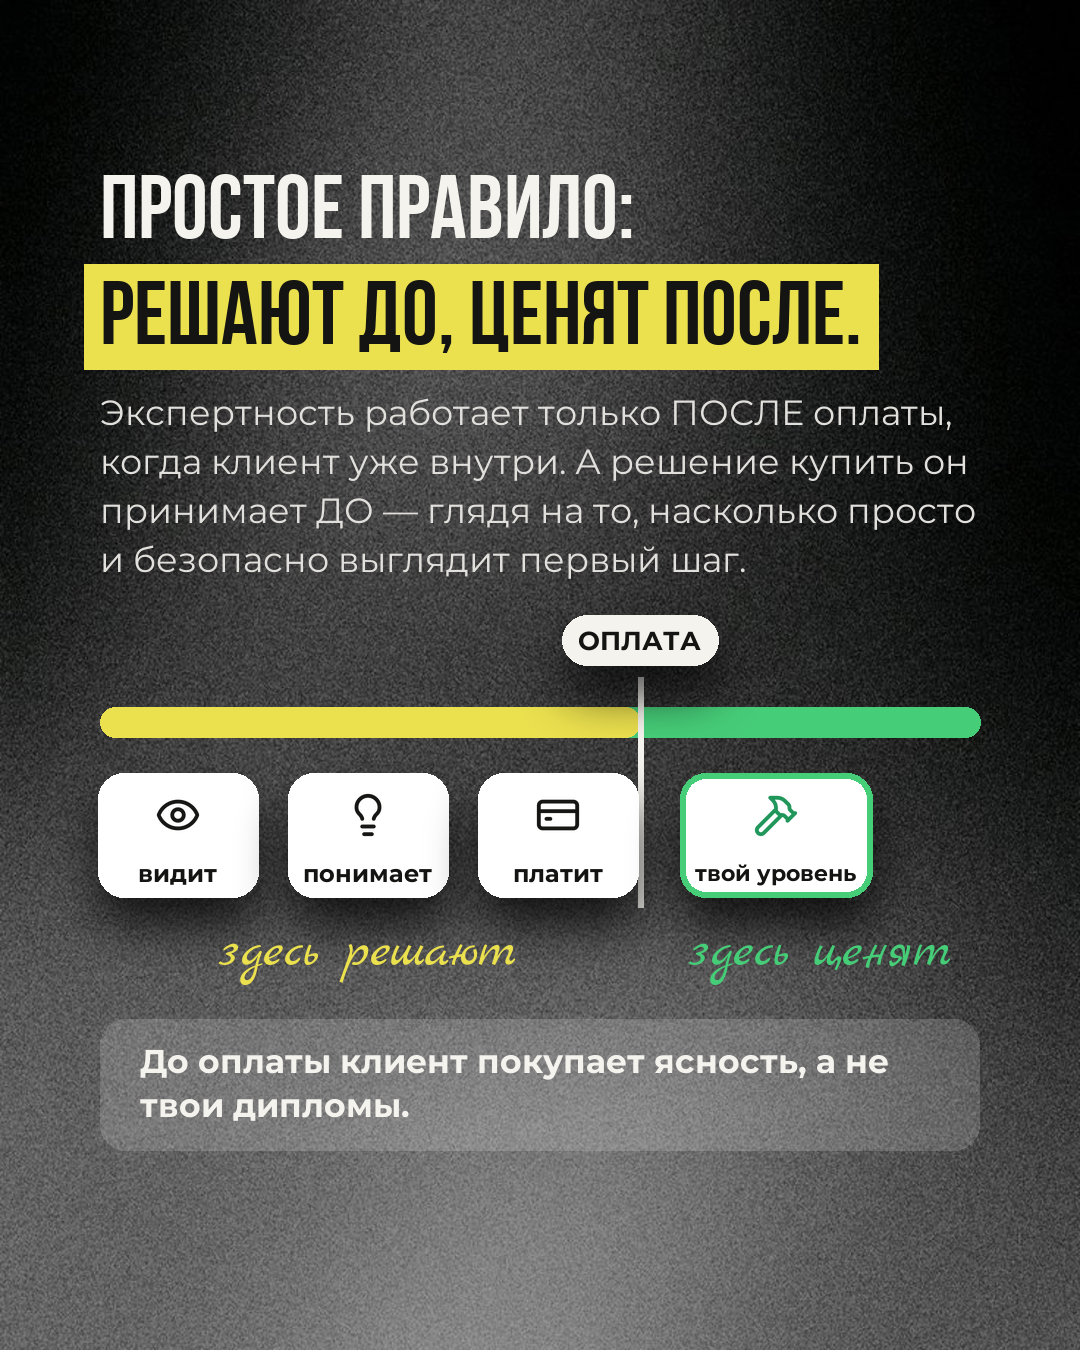
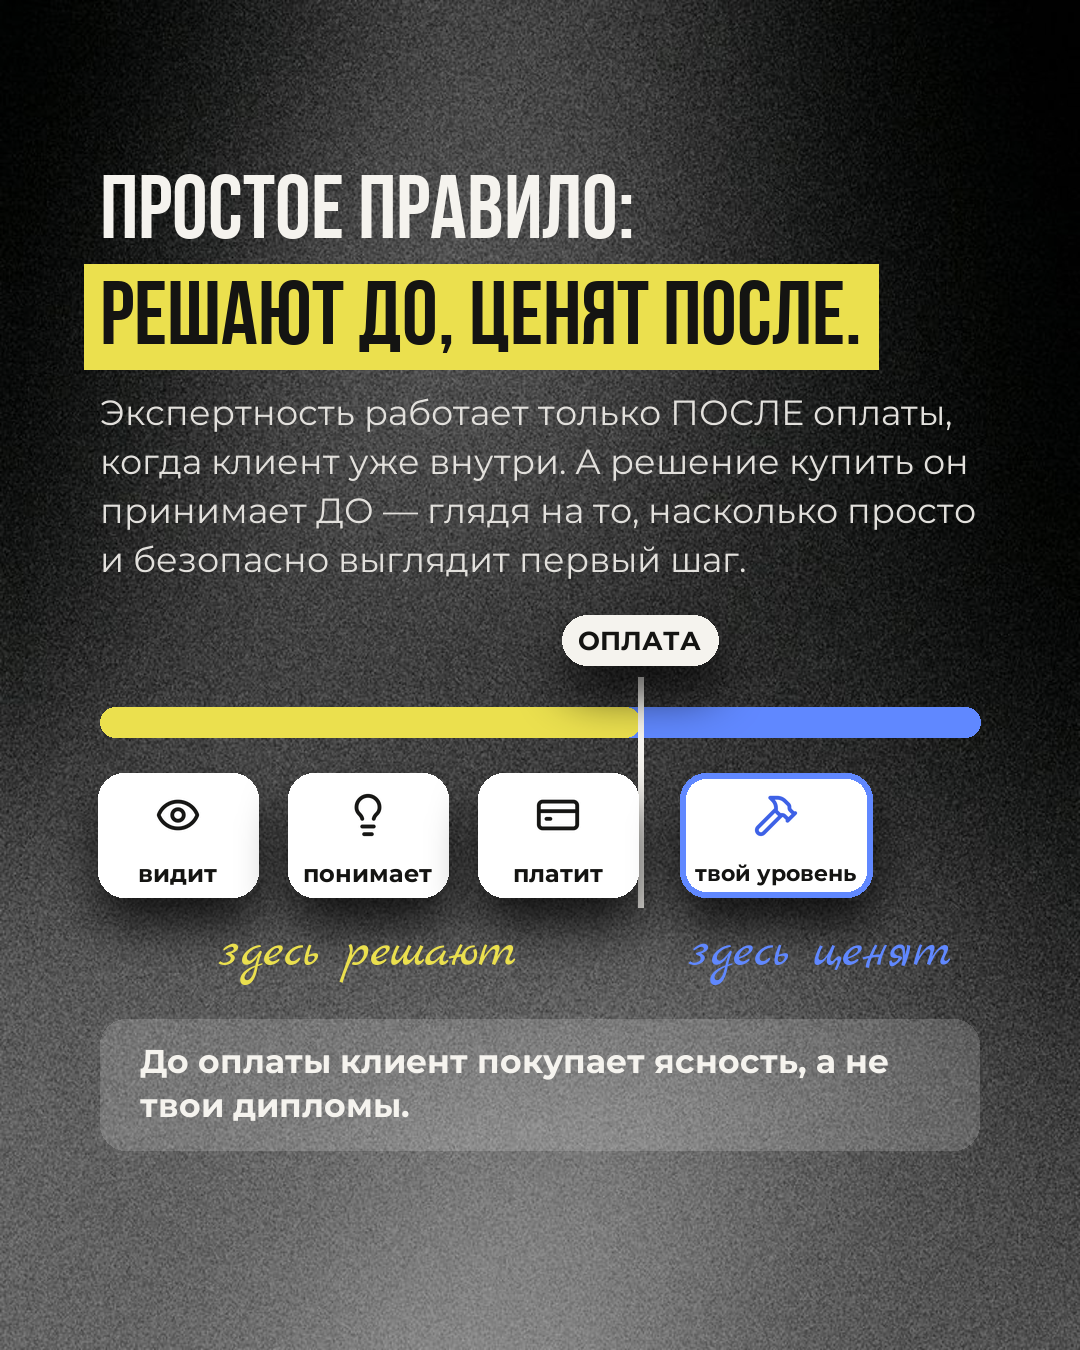
Обновлён скрипт и слайды

Changed region(s): [[0.5806, 0.4978, 0.9167, 0.6533], [0.6417, 0.6533, 0.8861, 0.7467], [0.6111, 0.5911, 0.6417, 0.6533]]

diff --git a/make_carousel_silnee.py b/make_carousel_silnee.py
@@ -4,7 +4,7 @@ HERE = os.path.dirname(os.path.abspath(__file__)); A = HERE + "/assets_free/"; G
 OUT = "/Users/dmitry/Desktop/Онлайн Продукты/Контент и сценарии/Карусель — Ты сильнее всех в нише (новый стиль)/"
 os.makedirs(OUT, exist_ok=True)
 FD = os.path.expanduser("~/.claude/skills/visual-design/assets/fonts")
-Y = (235, 224, 78); GRN = (70, 205, 120); WH = (245, 243, 238); BK = (20, 20, 18); GR = (150, 150, 146); DK = (60, 60, 58)
+Y = (235, 224, 78); GRN = (96, 136, 255); WH = (245, 243, 238); BK = (20, 20, 18); GR = (150, 150, 146); DK = (60, 60, 58)
 W, H = 1080, 1350; M = 100; TOP = 170          # безопасная зона: поля 100, сверху 170, снизу до ~1180, в углах ничего
 BEB = lambda s: ImageFont.truetype("/Users/dmitry/Library/Fonts/ofont.ru_Bebas Neue.ttf", s, layout_engine=ImageFont.Layout.BASIC)
 MB = lambda s: ImageFont.truetype(FD + "/Montserrat-Bold.ttf", s)
@@ -169,7 +169,7 @@ d.line([(split, y0 - 30), (split, y0 + 200)], fill=WH, width=6)
 rounded(im, (split - 78, y0 - 92, split + 78, y0 - 42), WH, radius=25); ImageDraw.Draw(im).text((split, y0 - 67), "ОПЛАТА", font=MB(26), fill=BK, anchor="mm")
 for ic, tx, cx in [("lucide_eye", "видит", M + 78), ("lucide_lightbulb", "понимает", M + 268), ("lucide_credit-card", "платит", M + 458)]:
     rounded(im, (cx - 80, y0 + 66, cx + 80, y0 + 190), (255, 255, 255), radius=26); icon(im, ic, cx, y0 + 108, 46, BK); ImageDraw.Draw(im).text((cx, y0 + 166), tx, font=MB(24), fill=BK, anchor="mm")
-rounded(im, (split + 40, y0 + 66, split + 232, y0 + 190), (255, 255, 255), radius=26, outline=GRN, width=6); icon(im, "lucide_hammer", split + 136, y0 + 108, 46, (30, 150, 90)); ImageDraw.Draw(im).text((split + 136, y0 + 166), "твой уровень", font=MB(22), fill=BK, anchor="mm")
+rounded(im, (split + 40, y0 + 66, split + 232, y0 + 190), (255, 255, 255), radius=26, outline=GRN, width=6); icon(im, "lucide_hammer", split + 136, y0 + 108, 46, (60, 96, 230)); ImageDraw.Draw(im).text((split + 136, y0 + 166), "твой уровень", font=MB(22), fill=BK, anchor="mm")
 d = ImageDraw.Draw(im); note(d, M + 268, y0 + 246, "здесь решают", 52, Y, "mm"); note(d, split + 180, y0 + 246, "здесь ценят", 52, GRN, "mm")
 takeaway(im, y0 + 312, "До оплаты клиент покупает ясность, а не твои дипломы.", 33); save(im, 5)
 
@@ -199,14 +199,17 @@ def box(im, cx, cy, s, label=None, handle=False, col=(196, 194, 188)):
     left = [(cx - s, cy - s // 2), (cx, cy), (cx, cy + s), (cx - s, cy + s // 2)]; right = [(cx + s, cy - s // 2), (cx, cy), (cx, cy + s), (cx + s, cy + s // 2)]
     d.polygon(left, fill=tuple(int(c * .78) for c in col)); d.polygon(right, fill=tuple(int(c * .6) for c in col)); d.polygon(top, fill=col)
     if label:
-        f = MB(21); tw = max(d.textlength(w_, font=f) for w_ in label.split()) + 28; th = 2 * 30 + 16
-        tag = Image.new("RGBA", (int(tw), th), (0, 0, 0, 0)); td = ImageDraw.Draw(tag); td.rounded_rectangle([0, 0, tag.width - 1, tag.height - 1], radius=10, fill=WH)
-        for k, w_ in enumerate(label.split()): td.text((tag.width // 2, 24 + k * 30), w_, font=f, fill=BK, anchor="mm")
-        tag = tag.rotate(6, expand=True, resample=Image.BICUBIC); im.paste(tag, (cx - s // 2 - tag.width // 2, cy + s // 4 - tag.height // 2), tag)
+        f = MB(19); ws = label.split(); tw = int(max(d.textlength(w_, font=f) for w_ in ws)) + 24; th = len(ws) * 26 + 14
+        tag = Image.new("RGBA", (tw, th + tw // 2 + 4), (0, 0, 0, 0)); td = ImageDraw.Draw(tag)
+        card = Image.new("RGBA", (tw, th), (0, 0, 0, 0)); cd = ImageDraw.Draw(card); cd.rounded_rectangle([0, 0, tw - 1, th - 1], radius=8, fill=WH)
+        for k, w_ in enumerate(ws): cd.text((tw // 2, 7 + 13 + k * 26), w_, font=f, fill=BK, anchor="mm")
+        tag.paste(card, (0, 0)); tag = tag.transform(tag.size, Image.AFFINE, (1, 0, 0, -0.5, 1, 0), Image.BICUBIC)   # наклон вдоль левой грани: вправо-вниз
+        bb = tag.getbbox(); tag = tag.crop(bb)
+        im.paste(tag, (cx - s // 2 - tag.width // 2, cy + s // 4 - tag.height // 2), tag)
 yb = y + 250
 box(im, M + 190, yb, 150, None, False); box(im, M + 600, yb, 150, "Разбор договора", True, (235, 224, 78))
 d = ImageDraw.Draw(im); note(d, M + 190, yb + 200, "сейчас", 54, (215, 214, 210), "mm"); note(d, M + 600, yb + 200, "как надо", 54, Y, "mm")
-hand_arrow(d, [(M + 372, yb + 70), (M + 420, yb + 70)], Y, 8, 20)
+hand_arrow(d, [(M + 372, yb + 70), (M + 408, yb + 70)], Y, 8, 20)
 takeaway(im, yb + 260, "Не доучивай продукт. Почини путь к нему.", 33); save(im, 7)
 
 # ---------------- 8. путь клиента ----------------
@@ -218,8 +221,9 @@ for i, txt in enumerate(["Одна фраза: кому помогаешь и к
     lines = wrap(dd, txt, MB(28), 720)
     for k, l in enumerate(lines): dd.text((M + 100, y0 + 50 - (len(lines) - 1) * 18 + k * 36), l, font=MB(28), fill=BK, anchor="lm")
     y0 += 116
-dd = ImageDraw.Draw(im); dd.ellipse([M, y0 + 8, M + 56, y0 + 64], fill=Y); dd.text((M + 28, y0 + 37), "3", font=BEB(44), fill=BK, anchor="mm"); dd.text((M + 76, y0 + 37), "Путь клиента:", font=MB(30), fill=WH, anchor="lm")
-ny = y0 + 90
+rounded(im, (M, y0, W - M, y0 + 100), (255, 255, 255), radius=26); dd = ImageDraw.Draw(im)
+dd.ellipse([M + 20, y0 + 22, M + 76, y0 + 78], fill=Y); dd.text((M + 48, y0 + 51), "3", font=BEB(44), fill=BK, anchor="mm"); dd.text((M + 100, y0 + 50), "Путь клиента:", font=MB(28), fill=BK, anchor="lm")
+ny = y0 + 124
 for i, (ic, cap) in enumerate([("simple-icons_instagram", "пост"), ("fluent-emoji_pushpin", "закреп: метод и цена"), ("simple-icons_telegram", "заявка в личку")]):
     cx = M + 100 + i * 340; rounded(im, (cx - 100, ny, cx + 100, ny + 200), (255, 255, 255), radius=30); dd = ImageDraw.Draw(im)
     lines = wrap(dd, cap, MB(24), 180); blk = 76 + 16 + len(lines) * 28; top = ny + (200 - blk) // 2
